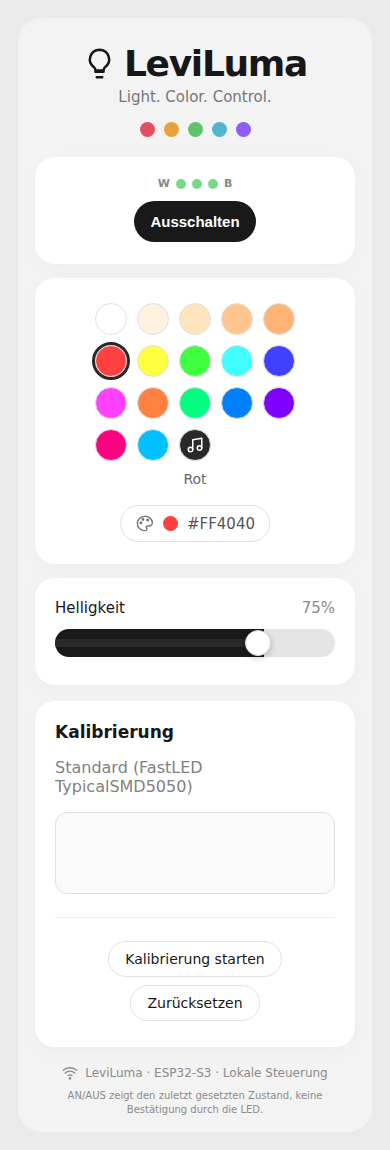
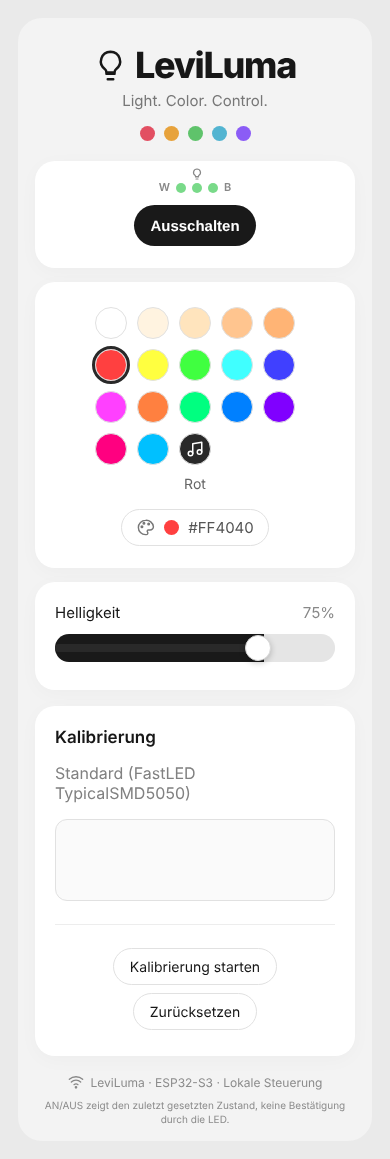
Web-UI: Glühbirne über dem Einschalt-Statuskreis, Farbe wie W und B
Die Glühbirne (SVG, Grau #888 wie die Buchstaben) sitzt absolut über dem mittleren Kreis,
damit die Reihe W - Kreise - B auf einer Linie bleibt.

Claude-Session: https://claude.ai/code/session_01XLaKkGhMqU82qXdsv9t5qw

diff --git a/include/WebUi.h b/include/WebUi.h
@@ -12,7 +12,7 @@ svg{display:block}header p{margin:4px 0;color:#777;font-size:15px}.branddots{dis
 .power-tile{display:flex;flex-direction:column;align-items:center;padding:20px 18px;gap:12px}
 .dots{display:flex;align-items:center;gap:6px}
 .dl{font-size:11px;font-weight:600;color:#888;line-height:1}
-.dot{display:inline-block;width:10px;height:10px;border-radius:50%;background:#e5484d}.dot.ok{background:#79da89}.dot.unk{background:#fff;box-shadow:inset 0 0 0 1px #c9c9c9}
+.dot{display:inline-block;width:10px;height:10px;border-radius:50%;background:#e5484d}.dot.ok{background:#79da89}.dot.unk{background:#fff;box-shadow:inset 0 0 0 1px #c9c9c9}.pcol{position:relative;display:inline-flex;align-items:center;color:#888}.pcol .bulb{position:absolute;left:50%;bottom:calc(100% + 3px);transform:translateX(-50%)}
 .statebar{display:flex;justify-content:center;margin-top:auto}
 .statebar .state{font-size:11px;font-weight:600;color:#888}
 .power-tile .power{margin:auto 0}
@@ -42,7 +42,7 @@ input[type=range]:focus{outline:none}
 input[type=range]:focus-visible::-webkit-slider-thumb{box-shadow:0 0 0 4px rgba(41,41,41,.18)}
 .locked{opacity:.4;pointer-events:none}
 .pname{text-align:center;font-size:14px;color:#666;min-height:20px;margin:-8px 0 14px}</style></head><body><div class="shell"><header><h1><svg width="33" height="37" viewBox="0 0 24 24" fill="none" stroke="currentColor" stroke-width="1.8" stroke-linecap="round" stroke-linejoin="round"><path d="M9 18h6m-5 4h4m-2-20a7 7 0 0 0-4 12.7c.7.5 1 1.4 1 2.3h6c0-.9.3-1.8 1-2.3A7 7 0 0 0 12 2Z"/></svg>LeviLuma</h1><p>Light. Color. Control.</p><div class="branddots"><i style="background:#E24F62"></i><i style="background:#E7A23B"></i><i style="background:#5FC36B"></i><i style="background:#52B4D1"></i><i style="background:#8B5CF6"></i></div></header>
-<main class="tri"><section class="card tile power-tile" id="tPower"><div class="dots"><span class="dl">W</span><span id="wifi" class="dot" title="WLAN getrennt"></span><span id="pwr" class="dot unk" title="Status unbekannt"></span><span id="ble" class="dot" title="BLE getrennt"></span><span class="dl">B</span></div><button class="power" id="power">Einschalten</button></section><section class="card tile" id="tColors"><div class="swatches" id="swatches"></div><div class="pname" id="pname"></div>
+<main class="tri"><section class="card tile power-tile" id="tPower"><div class="dots"><span class="dl">W</span><span id="wifi" class="dot" title="WLAN getrennt"></span><span class="pcol"><svg class="bulb" width="12" height="12" viewBox="0 0 24 24" fill="none" stroke="currentColor" stroke-width="2.4" stroke-linecap="round" stroke-linejoin="round"><path d="M9 18h6m-5 4h4m-2-20a7 7 0 0 0-4 12.7c.7.5 1 1.4 1 2.3h6c0-.9.3-1.8 1-2.3A7 7 0 0 0 12 2Z"/></svg><span id="pwr" class="dot unk" title="Status unbekannt"></span></span><span id="ble" class="dot" title="BLE getrennt"></span><span class="dl">B</span></div><button class="power" id="power">Einschalten</button></section><section class="card tile" id="tColors"><div class="swatches" id="swatches"></div><div class="pname" id="pname"></div>
 <div class="colorline"><label class="colorpill" for="color"><svg width="19" height="19" viewBox="0 0 24 24" fill="none" stroke="#777" stroke-width="1.8" stroke-linecap="round"><path d="M12 3a9 9 0 1 0 0 18h1a2 2 0 0 0 1.5-3.3 1.5 1.5 0 0 1 1.2-2.5h2.1A4.2 4.2 0 0 0 22 11a9 9 0 0 0-10-8Z"/><circle cx="7.5" cy="11" r="1"/><circle cx="10" cy="6.5" r="1"/><circle cx="16" cy="7.5" r="1"/></svg><span class="sample" id="sample"></span><span id="hex">#8B5CF6</span></label><input type="color" id="color" value="#8b5cf6"></div>
 </section><section class="card tile" id="tBright"><div class="brightnessline"><b>Helligkeit</b><span id="value">75%</span></div><input id="brightness" type="range" min="1" max="100" value="75"></section></main>
 <section class="card calib"><div class="top"><strong>Kalibrierung</strong></div>
